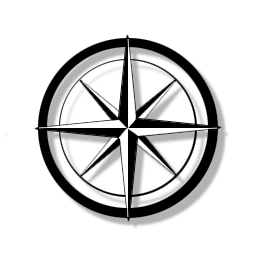
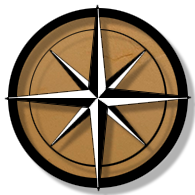
Nav, visual updates

diff --git a/src/App.jsx b/src/App.jsx
@@ -1,46 +1,20 @@
 import React from 'react';
+import { HashRouter, Route } from "react-router-dom";
 
-import Scene from './components/scene/scene';
-import Item from './components/item/item';
-import Page from './components/page/page';
-import StatBlock from './components/stat-block/stat-block';
-import Table from './components/table/table';
+
+import Editor from './components/editor/editor';
+import Home from './components/home/home';
+import SiteHeader from './components/site-header/site-header';
 
 function App() {
   return (
-    <div className="App">
-      <Page title='Assault on Westwood Keep'>
-        <div className='col50'>
-          <h2>The Slaughter of Agridale</h2>
-          <p>Lorem ipsum dolor sit amet, consectetur adipiscing elit. Aenean faucibus, tellus ut gravida pharetra, enim arcu consequat enim, vel volutpat libero eros vitae tellus.</p>
-          <Scene>Donec in nulla non diam semper tempor. Nullam nec gravida sapien. Morbi volutpat condimentum nibh vitae luctus. Nulla vulputate turpis mauris, eu tempus dolor accumsan sed.</Scene>
-          <p>Proin a ligula scelerisque, tempus lacus sodales, sagittis justo. Etiam a laoreet quam, dictum volutpat quam. Donec sodales eu libero in dignissim. Fusce venenatis neque sit amet commodo auctor. </p>
-          <Table />
-
-          <Item name='Staff of Focused Pain' type='Staff, Arcane Focus'>
-            +1 Spell Attack, +1 Spell Saving Throw DC <br />
-            <strong>Action:</strong> You are able to use the crystal embedded into this staff in order to focus
-            your pain, recovering one expended spell slot. You are only able to do this once per day.
-          </Item>
-          <Item name="Death's Chill" type='Scythe, Holy Symbol'>
-            +1 Attack +1 Damage (cold) <br />
-            The blade of this scyteh glows with a faint blue fire that is cold to the touch. Legends say Death
-            herself crated this staff and imbued into it the chill of the grave.
-          </Item>
-        </div>
-        <div className='col50'>
-          <StatBlock monsterId={29} />
-        </div>
-      </Page>
-      <Page title='Assault on Westwood Keep'>
-        <div className='col50'>
-          <StatBlock monsterId={97} />
-        </div>
-        <div className='col50'>
-        <StatBlock monsterId={243} />
-        </div>
-      </Page>
-    </div>
+    <div className='App'>
+      <HashRouter>
+        <SiteHeader />
+        <Route path="/" exact component={Home} />
+        <Route path="/editor" exact component={Editor} />
+      </HashRouter>
+    </div >
   );
 }
 

diff --git a/src/components/stat-block/stat-block.jsx b/src/components/stat-block/stat-block.jsx
@@ -1,13 +1,24 @@
-import React from 'react';
+import React, { useState } from 'react';
 import './stat-block.scss';
 
 import useDataFetcher from '../../utils/use-data-fetcher';
 import monsterUtils from '../../utils/monster-utils';
 
 const StatBlock = ({ monsterId }) => {
-    const { monster, fetching } = useDataFetcher({ type: 'monsters', id: monsterId });
+    const [ id, setId ] = useState(monsterId);
+    const [ val, setVal ] = useState();
+    const { monster, fetching } = useDataFetcher({ type: 'monsters', id });
 
-    return (!fetching
+    if (!id) {
+        return (
+            <div>
+                <input type='text' value={val} onChange={(e) => { setVal(e.target.value); }} />
+                <button type='button' onClick={() => { setId(val); }}>Go</button>
+            </div>
+        );
+    }
+
+    return (!fetching && monster
         ? <div className='stat-block'>
             <h1>{monster.name}</h1>
             <div className='size'>{monster.size} {monster.type}, {monster.alignment}</div>
@@ -56,13 +67,14 @@ const StatBlock = ({ monsterId }) => {
                 {monster.languages ? <li><strong>Languages</strong> {monster.languages}</li> : null}
                 <li><strong>Challenge</strong> {monster.challenge_rating}</li>
             </ul>
-            <ul className='special'>
-                {monster.special_abilities.map(ability => (
-                    <div key={ability.name}>
-                        <strong>{ability.name}</strong>
-                        <pre>{ability.desc}</pre></div>
-                ))}
-            </ul>
+             { monster.special_abilities ?
+                <ul className='special'>
+                    {monster.special_abilities.map(ability => (
+                        <div key={ability.name}>
+                            <strong>{ability.name}</strong>
+                            <pre>{ability.desc}</pre></div>
+                    ))}
+                </ul> : null }
             <h2>Actions</h2>
             <div className='action'>
                 {monster.actions.map(action => (

diff --git a/src/components/home/home.jsx b/src/components/home/home.jsx
@@ -1,0 +1,25 @@
+import React, { Fragment } from 'react';
+import { Scene, Item, Page, StatBlock, Table } from '../';
+
+const Home = () => (
+    <Fragment>
+        <Page title='A Homebrew Adventure'>
+            <div className='col50'>
+                <h2>Nullam nec gravida sapien</h2>
+                <p>Proin a ligula scelerisque, tempus lacus sodales, sagittis justo. Etiam a laoreet quam, dictum volutpat quam. Donec sodales eu libero in dignissim. Fusce venenatis neque sit amet commodo auctor. </p>
+                <Scene>Donec in nulla non diam semper tempor. Nullam nec gravida sapien. Morbi volutpat condimentum nibh vitae luctus. Nulla vulputate turpis mauris, eu tempus dolor accumsan sed.</Scene>
+                <Table />
+                <Item name='Staff of Focused Pain' type='Staff, Arcane Focus'>
+                    +1 Spell Attack, +1 Spell Saving Throw DC <br />
+                    <strong>Action:</strong> You are able to use the crystal embedded into this staff in order to focus
+                    your pain, recovering one expended spell slot. You are only able to do this once per day.
+                </Item>
+            </div>
+            <div className='col50'>
+                <StatBlock monsterId={71} />
+            </div>
+        </Page>
+    </Fragment>
+);
+
+export default Home;

diff --git a/src/components/site-header/site-header.scss b/src/components/site-header/site-header.scss
@@ -1,0 +1,52 @@
+.site-header {
+    background: #222;
+}
+.app-header {
+    display: flex;
+    height: 70px;
+
+    h1 {
+        background-image: url('/windrose.png');
+        background-repeat: no-repeat;
+        background-size: 55px;
+        background-position: 0 50%;
+
+        flex-basis: 155px;
+        padding-left: 55px;
+        font-size: 26px;
+        justify-content: center;
+        align-items: center;
+        display: flex;
+        color: tan;
+    }
+
+    .site-nav {
+        flex: 1;
+        display: flex;
+
+        a {
+            color: #efefef;
+            display: flex;
+            justify-content: center;
+            align-items: center;
+            flex-basis: 100px;
+            font-size: 16px;
+            text-decoration: none;
+            position: relative;
+    
+            &::after {
+                content: '';
+                
+                background: tan;
+                height: 5px;
+                position: absolute;
+                bottom: 0;
+                width: 0;
+            }
+            &.active::after {
+                transition: width 0.5s;
+                width: 100%;
+            }
+        }
+    }
+}

diff --git a/src/index.scss b/src/index.scss
@@ -1,24 +1,17 @@
 body {
   margin: 0;
-  font-family: -apple-system, BlinkMacSystemFont, "Segoe UI", "Roboto", "Oxygen",
-    "Ubuntu", "Cantarell", "Fira Sans", "Droid Sans", "Helvetica Neue",
-    sans-serif;
   -webkit-font-smoothing: antialiased;
   -moz-osx-font-smoothing: grayscale;
-}
-
-code {
-  font-family: source-code-pro, Menlo, Monaco, Consolas, "Courier New",
-    monospace;
-}
-
-body {
   background: #eee;
   font-family: "Libre Baskerville", serif;
   color: #333;
   font-size: 12px;
   line-height: 1.5;
-  /* text-shadow: chocolate 0 0 2px; */
+  overflow-y: scroll;
+}
+.container {
+  max-width: 1200px;
+  margin: 0 auto;
 }
 strong {
   font-weight: bold;

diff --git a/src/components/site-header/site-header.jsx b/src/components/site-header/site-header.jsx
@@ -1,0 +1,20 @@
+import React from 'react';
+import { NavLink } from "react-router-dom";
+import './site-header.scss';
+
+const SiteHeader = () => (
+    <div className='site-header'>
+        <div className='container'>
+            <div className='app-header'>
+                <h1>Cauldron</h1>
+                <nav className='site-nav'>
+                    <NavLink to='/' activeClassName='active' exact>Home</NavLink>
+                    <NavLink to='/editor' activeClassName='active' exact>Editor</NavLink>
+                </nav>
+            </div>
+        </div>
+        
+    </div>
+);
+
+export default SiteHeader;

diff --git a/src/components/index.js b/src/components/index.js
@@ -1,0 +1,5 @@
+export { default as Scene } from './scene/scene';
+export { default as Item } from './item/item';
+export { default as Page } from './page/page';
+export { default as StatBlock } from './stat-block/stat-block';
+export { default as Table } from './table/table';

diff --git a/src/components/editor/editor.jsx b/src/components/editor/editor.jsx
@@ -1,0 +1,12 @@
+import React from 'react';
+
+import './editor.scss';
+
+const Editor = () => {
+    return <div className='container'>
+        Hello, Editor!
+    </div>
+};
+
+export default Editor;
+
